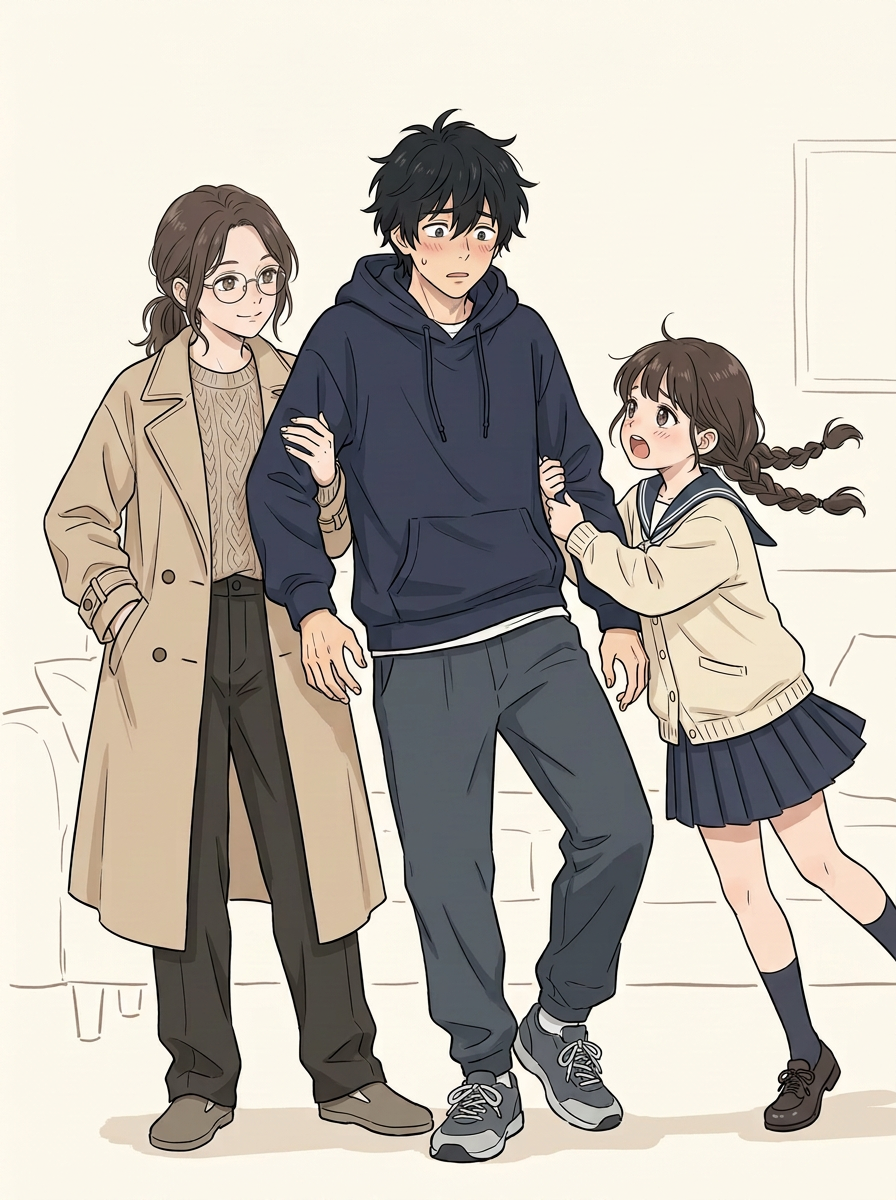
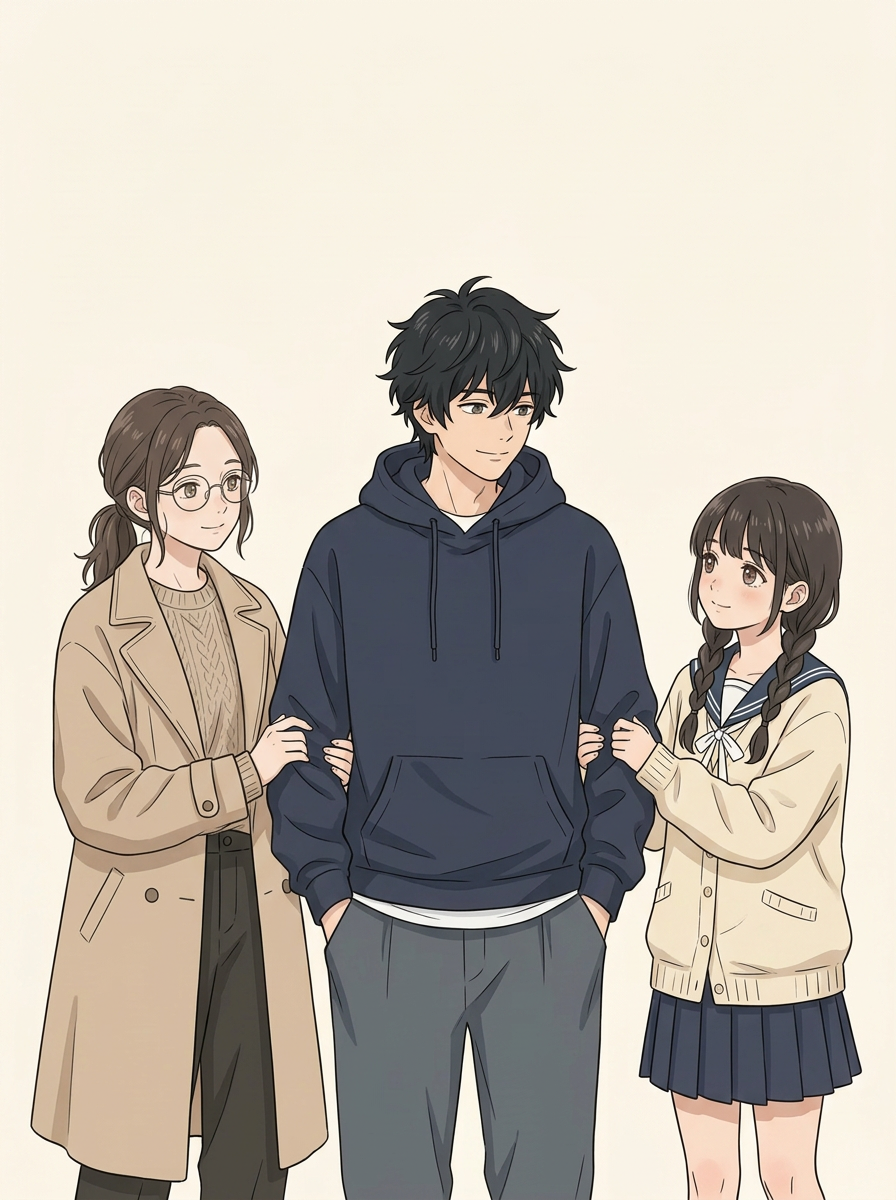
WIP: 备份画风并轨候选与隔离草稿

diff --git a/scripts/build_chapter_v4.py b/scripts/build_chapter_v4.py
@@ -1,18 +1,23 @@
 from pathlib import Path
 import hashlib
 import json
-from PIL import Image, ImageDraw, ImageFont, ImageFilter, ImageOps
+import sys
+from PIL import Image, ImageChops, ImageDraw, ImageFont, ImageFilter, ImageOps
 import numpy as np
 from speech_bubble_geometry import oval_speech
 from speech_text_layout import measure_speech_text
 from pdf_export import save_lossless_pdf_from_paths
 
 ROOT = Path(__file__).resolve().parents[1]
+# 当前重绘尚未验收；避免误覆盖旧正式交付。
+if sys.argv[1:] != ['--draft']:
+    raise SystemExit('第一话重绘仍在制作中；仅可用 --draft 生成隔离试排，禁止覆盖正式交付。')
+DRAFT = ROOT / 'deliverables/drafts/chapter-01'
 W, H = 1440, 1920
 SRC = ROOT / 'art/chapter-01-v4'
-OUT = ROOT / 'deliverables/full-v4/chapter-01'
+OUT = DRAFT / 'reading'
 OUT.mkdir(parents=True, exist_ok=True)
-VERTICAL_OUT = ROOT / 'deliverables/full-v4-vertical/chapter-01'
+VERTICAL_OUT = DRAFT / 'vertical'
 VERTICAL_OUT.mkdir(parents=True, exist_ok=True)
 VERTICAL_SIZE = (1440, 2146)
 FONT = ROOT / 'assets/fonts/NotoSansCJKsc-Bold.otf'
@@ -35,39 +40,50 @@ USER_FINAL = ROOT / 'art/user-final/chapter-01'
 USER_MANIFEST = json.loads((USER_FINAL / 'manifest.json').read_text(encoding='utf-8'))
 
 
-def user_final_page(page, size):
-    """用户定稿只读适配：完整contain、不裁切、不拉伸、不改字、不重排。
+def verify_user_final_archive():
+    """用户第5/6页定稿归档：文件与哈希只读保留，但2026-11-09起不再作为正式图源。
 
-    2026-11-08用户补充提供第5/6页无重影新图后，正式构建优先使用manifest.replacement；
-    旧original仍只读保留并校验来源。第五页阅读版与竖屏版沿用中央原画规则；
-    第六页用户新图本身为53:79，竖屏版直接从新图适配，避免二次扩边缩小画面。
+    整话重绘并轨后，第5/6页改用 art/chapter-01-v4/shot-05.png、shot-06.png 新原画，
+    中文日程表／气泡／页码全部由本脚本精确绘制（禁止AI生成中文）。此函数只校验
+    归档原件与replacement的SHA-256及尺寸，确保旧定稿未被覆盖或改动，不读取其像素。
     """
-    spec = next(p for p in USER_MANIFEST['pages'] if p['page'] == page)
-    original_path = USER_FINAL / spec['original']
-    original_digest = hashlib.sha256(original_path.read_bytes()).hexdigest()
-    if original_digest != spec['sha256']:
-        raise RuntimeError(f'用户定稿旧原图哈希不符，禁止覆盖或替换: {original_path}')
-    replacement = spec.get('replacement')
-    if replacement:
-        path = USER_FINAL / replacement['path']
-        expected_digest = replacement['sha256']
-        expected_size = replacement['size']
-    else:
-        path = original_path
-        expected_digest = spec['sha256']
-        expected_size = spec['original_size']
-    digest = hashlib.sha256(path.read_bytes()).hexdigest()
-    if digest != expected_digest:
-        raise RuntimeError(f'用户定稿当前图哈希不符，禁止覆盖或替换: {path}')
-    source = Image.open(path).convert('RGB')
-    if list(source.size) != expected_size:
-        raise RuntimeError(f'用户定稿当前图尺寸不符: {path}: {source.size}')
-    fitted = ImageOps.contain(source, size, Image.Resampling.LANCZOS)
-    if not replacement:
-        fitted = fitted.filter(ImageFilter.UnsharpMask(radius=0.65, percent=38, threshold=3))
-    result = Image.new('RGB', size, PAPER)
-    result.paste(fitted, ((size[0]-fitted.width)//2, (size[1]-fitted.height)//2))
-    return result
+    for spec in USER_MANIFEST['pages']:
+        original = USER_FINAL / spec['original']
+        if hashlib.sha256(original.read_bytes()).hexdigest() != spec['sha256']:
+            raise RuntimeError(f'用户定稿归档原件哈希不符，禁止覆盖: {original}')
+        replacement = spec.get('replacement')
+        if replacement:
+            path = USER_FINAL / replacement['path']
+            if hashlib.sha256(path.read_bytes()).hexdigest() != replacement['sha256']:
+                raise RuntimeError(f'用户定稿归档replacement哈希不符: {path}')
+            if list(Image.open(path).size) != replacement['size']:
+                raise RuntimeError(f'用户定稿归档尺寸不符: {path}')
+    return True
+
+
+verify_user_final_archive()
+
+
+def schedule_card(im, box, rows, title='星野的日程表', title_size=46, row_size=38,
+                  row_step=92, margin=34, tilt=0):
+    """脚本精确绘制中文日程卡：白底细边框＋逐字排版，可轻微倾斜，绝不交给AI写中文。"""
+    x0, y0, x1, y1 = box
+    w, h = x1-x0, y1-y0
+    card = Image.new('RGBA', (w, h), (0, 0, 0, 0))
+    d = ImageDraw.Draw(card)
+    d.rectangle((0, 0, w-1, h-1), fill=(250, 247, 240, 255), outline=(70, 66, 62, 255), width=2)
+    d.text((margin, 26), title, font=ft(title_size), fill=RED)
+    y = 26 + title_size + 42
+    for row in rows:
+        d.text((margin, y), row, font=ft(row_size), fill=INK)
+        y += row_step
+    assert y < h - 16, '日程卡文字超出安全区'
+    if tilt:
+        card = card.rotate(tilt, resample=Image.Resampling.BICUBIC, expand=True)
+        x0 -= (card.width-w)//2
+        y0 -= (card.height-h)//2
+    im.paste(card, (x0, y0), card)
+    return (x0, y0, x0+card.width, y0+card.height)
 
 
 def cover_title(d, s, size=66):
@@ -154,7 +170,51 @@ def perspective_schedule(im, title_s, rows, quad, source_size, title_size=58, ro
     im.paste(warped, (0, 0), warped)
 
 
+def save_png_if_changed(im, path):
+    """草稿逐像素不变即复用，避免无谓的 PNG 编码；不改正式目录。"""
+    if path.exists():
+        with Image.open(path) as existing:
+            old = existing.convert('RGB')
+        if old.size == im.size and ImageChops.difference(old, im.convert('RGB')).getbbox() is None:
+            return False
+    tmp = path.with_name(path.name + '.tmp')
+    try:
+        im.convert('RGB').save(tmp, format='PNG')
+        tmp.replace(path)
+    finally:
+        tmp.unlink(missing_ok=True)
+    return True
+
+
+def file_sha256(path):
+    h = hashlib.sha256()
+    with path.open('rb') as f:
+        for chunk in iter(lambda: f.read(1024 * 1024), b''):
+            h.update(chunk)
+    return h.hexdigest()
+
+
+def ensure_draft_pdf(paths, pdf_path, previous):
+    """页图和 PDF 自身哈希都一致才复用；先写临时文件再原子替换。"""
+    digest = hashlib.sha256()
+    for path in paths:
+        digest.update(path.name.encode('utf-8'))
+        digest.update(bytes.fromhex(file_sha256(path)))
+    source = digest.hexdigest()
+    if (pdf_path.exists() and previous.get('source') == source
+            and previous.get('pdf') == file_sha256(pdf_path)):
+        return {'source': source, 'pdf': previous['pdf']}, False
+    tmp = pdf_path.with_name(pdf_path.name + '.tmp')
+    try:
+        save_lossless_pdf_from_paths(paths, tmp, resolution=150)
+        tmp.replace(pdf_path)
+    finally:
+        tmp.unlink(missing_ok=True)
+    return {'source': source, 'pdf': file_sha256(pdf_path)}, True
+
+
 pages = []
+reading_changed = 0
 
 im = scene('cover.png')
 d = ImageDraw.Draw(im)
@@ -163,67 +223,105 @@ speech(im, ['星野，这次长假，', '先陪我，好不好？'], (520, 220),
 d = ImageDraw.Draw(im)
 d.text((60, 1780), '《二弟的休息日被全家预约了》 第一话', font=ft(25), fill=RED, stroke_width=2, stroke_fill=PAPER)
 num(im)
-im.save(OUT/'page-00-cover.png')
+reading_changed += save_png_if_changed(im, OUT/'page-00-cover.png')
 pages.append(im)
 
 im = scene('shot-01.png')
 speech(im, ['项目搞定！', '从今天起，我是家里蹲。'], (390, 110), (735, 400), 30)
 num(im, 1)
-im.save(OUT/'page-01.png')
+reading_changed += save_png_if_changed(im, OUT/'page-01.png')
 pages.append(im)
 
 im = scene('shot-02.png')
 speech(im, ['这次我会多住一阵子，', '以前没时间陪你的，', '慢慢补回来。'],
        (255, 335), (510, 750), 28)
 num(im, 2)
-im.save(OUT/'page-02.png')
+reading_changed += save_png_if_changed(im, OUT/'page-02.png')
 pages.append(im)
 
 im = scene('shot-03.png')
 speech(im, ['我刚回来，', '今天先归我。'], (230, 180), (336, 480), 30)
 speech(im, ['二哥，', '今天先陪我！'], (1120, 400), (1008, 704), 30)
 num(im, 3)
-im.save(OUT/'page-03.png')
+reading_changed += save_png_if_changed(im, OUT/'page-03.png')
 pages.append(im)
 
 im = scene('shot-04.png')
-speech(im, ['小满，', '连你也来抢呀？'], (1130, 340), (1176, 624), 28)
+speech(im, ['小满，', '连你也来抢呀？'], (1130, 200), (1176, 624), 28)
 speech(im, ['小叔先陪我', '搭城堡啦。'], (200, 680), (368, 912), 28)
 num(im, 4)
-im.save(OUT/'page-04.png')
+reading_changed += save_png_if_changed(im, OUT/'page-04.png')
 pages.append(im)
 
-# 用户最终定稿：不得再调用旧原画、气泡、纸色或日程透视流程。
-im = user_final_page('05', (W, H))
-im.save(OUT/'page-05.png')
+# 第5/6页：2026-11-09 整话重绘并轨，正式图源改为新原画；中文全部由脚本精确绘制。
+# 旧用户定稿文件与哈希只读归档（verify_user_final_archive），不再作为图源。
+im = scene('shot-05.png')
+schedule_card(im, (55, 45, 585, 535),
+              ['1. 陪姐姐玩', '2. 陪妹妹玩', '3. 陪小满玩'],
+              title_size=46, row_size=39, row_step=96, tilt=-3)
+# 纸上笔迹单独按实际纸张透视排版，避免AI假字；此页的手位仍须放大复核。
+perspective_schedule(im, '星野的日程表', ['1. 陪姐姐玩', '2. 陪妹妹玩', '3. 陪小满玩'],
+                     ((660, 1195), (775, 1150), (880, 1225), (770, 1275)),
+                     (360, 360), title_size=34, row_size=27, row_step=65,
+                     title_y=8, start_y=70, margin=14)
+speech(im, ['别抢啦，', '我把时间', '都排好了。'], (1270, 155), (1190, 520), 27)
+num(im, 5)
+reading_changed += save_png_if_changed(im, OUT/'page-05.png')
 pages.append(im)
 
-im = user_final_page('06', (W, H))
-im.save(OUT/'page-06.png')
+im = scene('shot-06.png')
+schedule_card(im, (585, 270, 910, 700),
+              ['1. 陪姐姐玩', '2. 陪妹妹玩', '3. 陪小满玩', '4. 睡觉休息'],
+              title_size=29, row_size=25, row_step=68, margin=25)
+# 母亲面向纸张，纸面补充项倒置于观看方向，完整可读的第四项也保留在上方日程卡。
+perspective_schedule(im, '星野的日程表',
+                     ['1. 陪姐姐玩', '2. 陪妹妹玩', '3. 陪小满玩', '4. 睡觉休息'],
+                     ((825, 1285), (740, 1285), (740, 1230), (825, 1230)),
+                     (300, 220), title_size=25, row_size=22, row_step=38,
+                     title_y=5, start_y=42, margin=8)
+speech(im, ['我也有自己的', '行程啊？'], (300, 150), (450, 420), 27)
+speech(im, ['安排得挺好，', '不过得先把他', '休息的时间排上。'], (1080, 150), (1050, 520), 27)
+num(im, 6)
+reading_changed += save_png_if_changed(im, OUT/'page-06.png')
 pages.append(im)
 
 im = scene('shot-07.png')
 caption(im, '妈妈转述', ['你哥哥跟你说，项目结束就好，', '早点休息，别熬夜。'], (55, 55), 27)
-speech(im, ['小叔，等你休息好了，', '再陪我讲故事嘛。'], (220, 835), (390, 1070), 27)
+speech(im, ['小叔，等你休息好了，', '再陪我讲故事嘛。'], (300, 1510), (930, 1290), 27)
 d = ImageDraw.Draw(im)
 d.rounded_rectangle((50, 1795, 585, 1870), radius=18, fill=INK)
 d.text((75, 1815), '二弟被预约的第一天，正式开始。', font=ft(22), fill=YELLOW)
 num(im, 7)
-im.save(OUT/'page-07.png')
+reading_changed += save_png_if_changed(im, OUT/'page-07.png')
 pages.append(im)
 
-save_lossless_pdf_from_paths(sorted(OUT.glob('page-*.png')), ROOT/'deliverables/第一话_V4_精细化重制.pdf', resolution=150)
-vertical_pages = []
-for source_path in sorted(OUT.glob('page-*.png')):
-    source = Image.open(source_path).convert('RGB')
-    assert source.size == (W, H), f'Unexpected approved page size: {source_path}: {source.size}'
-    if source_path.name == 'page-06.png':
-        vertical = user_final_page('06', VERTICAL_SIZE)
-    else:
-        vertical = Image.new('RGB', VERTICAL_SIZE, PAPER)
-        vertical.paste(source, (0, (VERTICAL_SIZE[1]-H)//2))
-    vertical.save(VERTICAL_OUT/source_path.name)
-    vertical_pages.append(vertical)
-save_lossless_pdf_from_paths(sorted(VERTICAL_OUT.glob('page-*.png')), ROOT/'deliverables/第一话_竖屏全页漫画.pdf', resolution=150)
-print('Built chapter 1 with measured elliptical speech balloons:', len(pages), 'pages')
-print('Built reference-ratio vertical edition:', len(vertical_pages), 'pages', VERTICAL_SIZE)
+# 指定固定页序，不将旧草稿目录中额外的 PNG 意外打包。
+names = ['page-00-cover.png'] + [f'page-{i:02d}.png' for i in range(1, 8)]
+reading_paths = [OUT / name for name in names]
+vertical_paths = [VERTICAL_OUT / name for name in names]
+vertical_changed = 0
+for source_path, dest_path in zip(reading_paths, vertical_paths):
+    with Image.open(source_path) as page:
+        source = page.convert('RGB')
+    assert source.size == (W, H), f'Unexpected draft page size: {source_path}: {source.size}'
+    vertical = Image.new('RGB', VERTICAL_SIZE, PAPER)
+    vertical.paste(source, (0, (VERTICAL_SIZE[1]-H)//2))
+    vertical_changed += save_png_if_changed(vertical, dest_path)
+
+cache_path = DRAFT / '.pdf-cache.json'
+try:
+    previous = json.loads(cache_path.read_text(encoding='utf-8'))
+except (FileNotFoundError, ValueError):
+    previous = {}
+cache = {}
+cache['reading'], reading_pdf_changed = ensure_draft_pdf(
+    reading_paths, DRAFT/'chapter-01-draft-reading.pdf', previous.get('reading', {}))
+cache['vertical'], vertical_pdf_changed = ensure_draft_pdf(
+    vertical_paths, DRAFT/'chapter-01-draft-vertical.pdf', previous.get('vertical', {}))
+cache_tmp = cache_path.with_name(cache_path.name + '.tmp')
+try:
+    cache_tmp.write_text(json.dumps(cache, ensure_ascii=False, indent=2), encoding='utf-8')
+    cache_tmp.replace(cache_path)
+finally:
+    cache_tmp.unlink(missing_ok=True)
+print(f'UNAPPROVED DRAFT chapter 1: {len(pages)} pages; PNG changed: {reading_changed} reading / {vertical_changed} vertical; PDF rebuilt: {reading_pdf_changed} / {vertical_pdf_changed}')

diff --git a/PROJECT_MEMORY.md b/PROJECT_MEMORY.md
@@ -30,7 +30,7 @@
 4. **表演必须匹配情绪方向，不能只有开心/惊讶两档。**“害羞但强撑主动”要画脸红延伸耳根、眉毛紧张微抬、视线躲闪、嘴唇轻抿、手指用力、肩膀微收；被动一方也要耳根红、视线偏移。禁止用闭眼恬静微笑冒充害羞强撑。分镜须写明情绪关键词与可见证据，生图后逐项对照。
 5. **每次交付必须跑画面级预筛 `scripts/audit_page_canvas.py`。**它检查黑边、画内框线、纯纸空白带、纸色外边距和画风漂移。FAIL必须重绘，WARN必须放大目检；误报（门框、衣架立柱、暗色背景）由人眼排除。脚本不拥有验收权，气泡审计PASS不代表画幅合格。
 
-**“逐页目检”固定清单（缺一不可）：**画幅四边与框线 → 画风一致性 → 人物身份/脸型/服装连续 → 情绪方向与表演强度 → 手指与肢体解剖 → 道具结构与跨页连续 → 背景文字是否乱码/错语言 → 气泡归属与阅读顺序 → **逐句朗读核对问答链与动机前置** → 页码与背景对比度 → 主体是否被画幅裁切。
+**“逐页目检”固定清单（缺一不可，2026-11-08 补充，详见长期记录第廿七节）：**画幅四边与框线 → 画风一致性 → 人物身份/脸型/服装连续 → **每页表情方向与跨页变化（男主不得整话一张无表情脸，也不得用夸张笑脸代替）** → **颜色深/中/浅三层与不过浅（大片纯浅墙、人物贴白纸须与锚点对照；不得用机械压暗掩盖其他缺陷）** → 动作真实接触 → 手指与袖管解剖 → 道具数量/结构/跨页状态 → 背景文字是否乱码/错语言 → 气泡归属与阅读顺序 → **逐句朗读核对问答链与动机前置** → 页码与背景对比度 → 主体是否被画幅裁切。统计值只用于定位嫌疑页，不替代 read_file 放大目检。
 
 ## 台词动机、场景前置与时序铁律（2026-11-08用户看完成品后新增，最高优先级）
 
@@ -49,7 +49,7 @@
 - 不得乱加对白、解释、吐槽、误会澄清、人物反应或新情节；不得把用户确定的互动改成另一种关系表达。
 - 只在用户明确要求时整理节奏或提供补充方案。用户家庭的私人背景只用于理解边界，不写入正文、人物设定或制作文档。
 - 修改道具或构图仍须使用对应角色的正式人设，不得为修物品而换人物。每页逐件检查物品结构、功能、数量、握持、遮挡和背景相切；同一物品跨页核对方向、比例、开合、颜色、持有人和用途。用户指出一类问题后排查两话全部正式页面。
-- **用户最终图片优先于旧制作记录。** 第一话第5、6页以 `art/user-final/chapter-01/manifest.json` 指定的用户定稿为唯一来源；2026-11-08起正式构建优先使用无重影 `clean-replacements/page-05.png`、`page-06.png`，旧 `*.original.png` 只读保留作历史来源。纸张、日程展示方式、气泡、文字、人物和构图全部视为定稿，不得再次“纠正”。第6页第四项固定为“4. 睡觉休息”。构建脚本只读用户图并做必要尺寸适配，不再锐化，禁止旧日程透视、旧气泡或旧原画覆盖。
+- **用户最新指示优先于旧定稿规则。** 用户已明确授权第一话全8页（包括第5、6页）重绘并轨；旧 `art/user-final/chapter-01/manifest.json`、原图与 clean replacement 原文件及哈希仍只读保留，不再作为新重绘正式图源。第6页第四项固定为“4. 睡觉休息”。新源画和试排仍待核对，当前构建仅允许 `--draft`，禁止覆盖旧正式交付；历史记录中的旧定稿锁定不再约束新重绘。
 - 第三话按用户确认的8个事件制作，不添加事件、解释或留学分别线。**现行结构为封面+11页正片共12页**（2026-11-08第二次返修按用户意见由10页扩页）：第3页持开衫问、第4页穿上后才夸、第7页双人共食活动前置、第8页巨型巴菲共食，女同学问答落在第10页、同睡结尾落在第11页。见 `docs/第三话_用户确认剧情与制作边界.md`、`docs/第三话_正式分镜与台词.md`。后续画风严格延续当前两话与 `art/reference/family-character-design-v3.jpg`、`art/character-v3/` 正式人设，不另起新风格。
 
 ## 2026-11-08 开工轮补充：无损PDF与第三话状态（历史，已被下文10页成品轮覆盖）

diff --git a/AGENTS.md b/AGENTS.md
@@ -86,3 +86,15 @@
   并逐页放大比对；不要先出图再逐页返工。第四话 10 次额度中 5 次耗在二次修正（p7 腿、
   p8 亲亲边界、p6/p7/p8 床上状态），是没一次写全的直接代价。额度用尽仍留有同类缺陷时，
   登记待办、下一轮优先整张重生成，**禁止局部涂改或把缺陷自辩成「褶皱表现差异」**。
+
+**第一话整话重绘并轨追加铁律（2026-11-08 用户打断纠错，最高优先级，详见 `docs/错误复盘与优化方案长期记录.md` 第廿七节）：**
+- **男主表情不得整话只用一张脸**：第廿六节的「太僵硬／板着脸」原本只管 ch3 p11 单页，现升级为**全话级**。生图前必须逐页写「本页情绪方向＋至少两处可见表演线索」（眉、眼、视线、嘴角、头颈、手势），并逐页变化；禁止把 `calm near-straight mouth`／「克制平静」原样复制进多页 prompt。变化必须仍落在官方人设内：窄长脸、细长半垂眼、蓬松黑短发、薄眉、克制幅度；**不得用咧嘴大笑、圆眼、Q版巨眼、重腮红、夸张眉形来制造表情**，也不得回到「全程无表情」。每页交付前把男主脸裁图并排看一整话，确认不是同一张脸且情绪与台词／动作对得上。
+- **颜色过浅与画风漂移必须逐页判读**：整页要有深／中／浅三层，深色锚点（头发、卫衣、家具、地面、门框）必须撑得住画面；大片纯浅奶油墙、人物像贴在白纸上、灰蓝衣物淡到发白须结合场景及官方锚点逐页判读，确认不合格时重绘或按获授权范围修正。**不得以机械压暗或滤镜掩盖画风、人物和动作问题并冒充修好**；第二话获授权的轻度色温／纸纹微调仍可进行，须前后比对；也禁止为求层次退回粗棕描边、厚土色、排线木纹。判据必须与官方合照＋本话锚点页并排肉眼比对，meanRGB／亮度／浅色像素占比只用于定位嫌疑页，不作为验收。
+- **逐页目检固定清单补充**：画幅四边与框线 → 画风一致性 → 人物身份/脸型/服装连续 → **每页表情方向与跨页变化** → **颜色三层与不过浅** → 动作真实接触 → 手指与袖管解剖 → 道具数量/结构/跨页状态 → 背景文字乱码 → 气泡归属与阅读顺序 → 逐句朗读问答链 → 页码与主体裁切。脚本 PASS、均值统计、逐像素一致、ZIP 字节等同都不替代逐项目检。
+- **整话重绘时 p05／p06 的中文一律由构建脚本精确绘制**：模型只画人物／空白纸／构图，禁止生成中文日程表、气泡、页码，避免错字与「4. 睡觉休息」被改回「4. 睡觉」。用户旧定稿文件与哈希只读保留，但正式图源改从新原画取。
+- **生图前与交付前各查一次沙箱余量**：`df -h`／`free -h`；余量不足以安全完成当前作业时先清理可再生的临时文件、缩小批次或暂停，禁止把磁盘跑满导致 OOM／产物写坏。
+
+**人物身份先于表情（用户截图纠错，2026-11-08；长期记录第廿八节）：**
+- 逐页把实际人物脸部与对应官方立绘／官方合照并排放大：先核对年龄感、发量与刘海、脸型、眼形与五官间距、服装发饰，再看表情和动作；表情可自然变化，但不能借表情改出另一个人的脸。用户截图中露大额头的短发、偏老脸和变形眉眼是失败反例（`docs/反例库/第一话_男主短发偏脸_用户截图.png`）。
+- 官方参考图是生成的条件，不是模型遵循身份的保证。生成成功、prompt 写了人设、局部轮廓接近、颜色统计或审计通过都不能替代视觉比对；若旧构图图像带回错误脸，停止使用它，改用官方锚点独立起稿；同处反复失败先简化构图，禁止以连续补丁掩盖。
+- 用户授权检查并重画同类错误不等于所有候选已合格：列明实际检查与尚待修复的页，保留用户已认可的特殊页，未复核及未获用户验收的候选不得替换正式交付或写成已完成。

diff --git a/README.md b/README.md
@@ -1,5 +1,7 @@
 # 《二弟的休息日被全家预约了》漫画制作
 
+> **制作中**：第一话全8页重绘仍为候选；p03 交互肢体及画幅尚待解决，p04 新候选与 p05/p06 文字、p07 气泡及颜色等尚需全页复核。本目录第一话正式 PDF/页面仍为旧版本，勿把新源画视作已验收成品。`scripts/build_chapter_v4.py --draft` 只输出隔离试排。第二话 p06 与第三话 p09/p10 有未采纳候选，第二话实际并轨未完成；第三话 p08 不动。旧定稿文件及哈希保留，详细状态见 `docs/错误复盘与优化方案长期记录.md` 第廿九、三十节。
+
 > **每次制作、修改、检查与交付前必读：`AGENTS.md`、`PROJECT_MEMORY.md`、`docs/错误复盘与优化方案长期记录.md`。必须逐页用眼睛观察实际成图并结合剧情与构图思考；脚本、尺寸、页数和几何检查通过不等于完成。**V4封面与7页正片均已重新独立绘制，不调用旧正片、不把人设立绘当剧情图，也不以“原图加方框”冒充优化。V3第一话保留作退回版本记录。
 
 当前唯一视觉基准为用户新确认的 `art/reference/family-character-design-v3.jpg`。正式风格统一为暖纸底、低饱和灰蓝与米棕、细腻手绘线、自然五官及轻薄柔和的填色。旧V2高饱和粗描边人物不再混入正式成品。
@@ -11,7 +13,7 @@
 - `deliverables/full-v4/chapter-01/`：V4的8张定版阅读PNG，3:4、1440×1920。
 - `deliverables/full-v4-vertical/chapter-01/`：8张竖屏视频PNG，1440×2146；定版原画逐像素保留，只在上下补暖纸色。
 - `art/chapter-01-v4/`：本次重新绘制的封面与7张剧情原图，未复用V3场景或人设立绘；其中第5、6页旧原画已被用户最终定稿取代，不再进入正式构建。
-- `art/user-final/chapter-01/`：用户上传的第一话第5、6页最终原图、来源与哈希清单。构建脚本只读保护，不得重画、改字或重新排版；第6页第四项为“4. 睡觉休息”。
+- `art/user-final/chapter-01/`：用户上传的第一话第5、6页最终原图、来源与哈希清单。旧文件及哈希继续只读保留；用户已授权整话重绘，试排不再以旧图为图源，第6页第四项仍须为“4. 睡觉休息”。
 - `deliverables/第三话_妹妹的休息日.pdf`：第三话封面＋11页正片，**共12页**（2026-11-08 v7 返修版，PNG/Flate 无损，约37MB，作印刷／归档备份）。
 - `deliverables/第三话_竖屏全页漫画.pdf`：第三话1440×2146竖屏视频版，共12页（PNG/Flate 无损，约37MB，作备份）。
 - `deliverables/第三话_逐页看图.md`：**推荐入口**，12张PNG相对路径内嵌，GitHub网页直接逐页显示，不下载、不转图。大PDF在GitHub在线预览会失败，故主交付不再依赖PDF。
